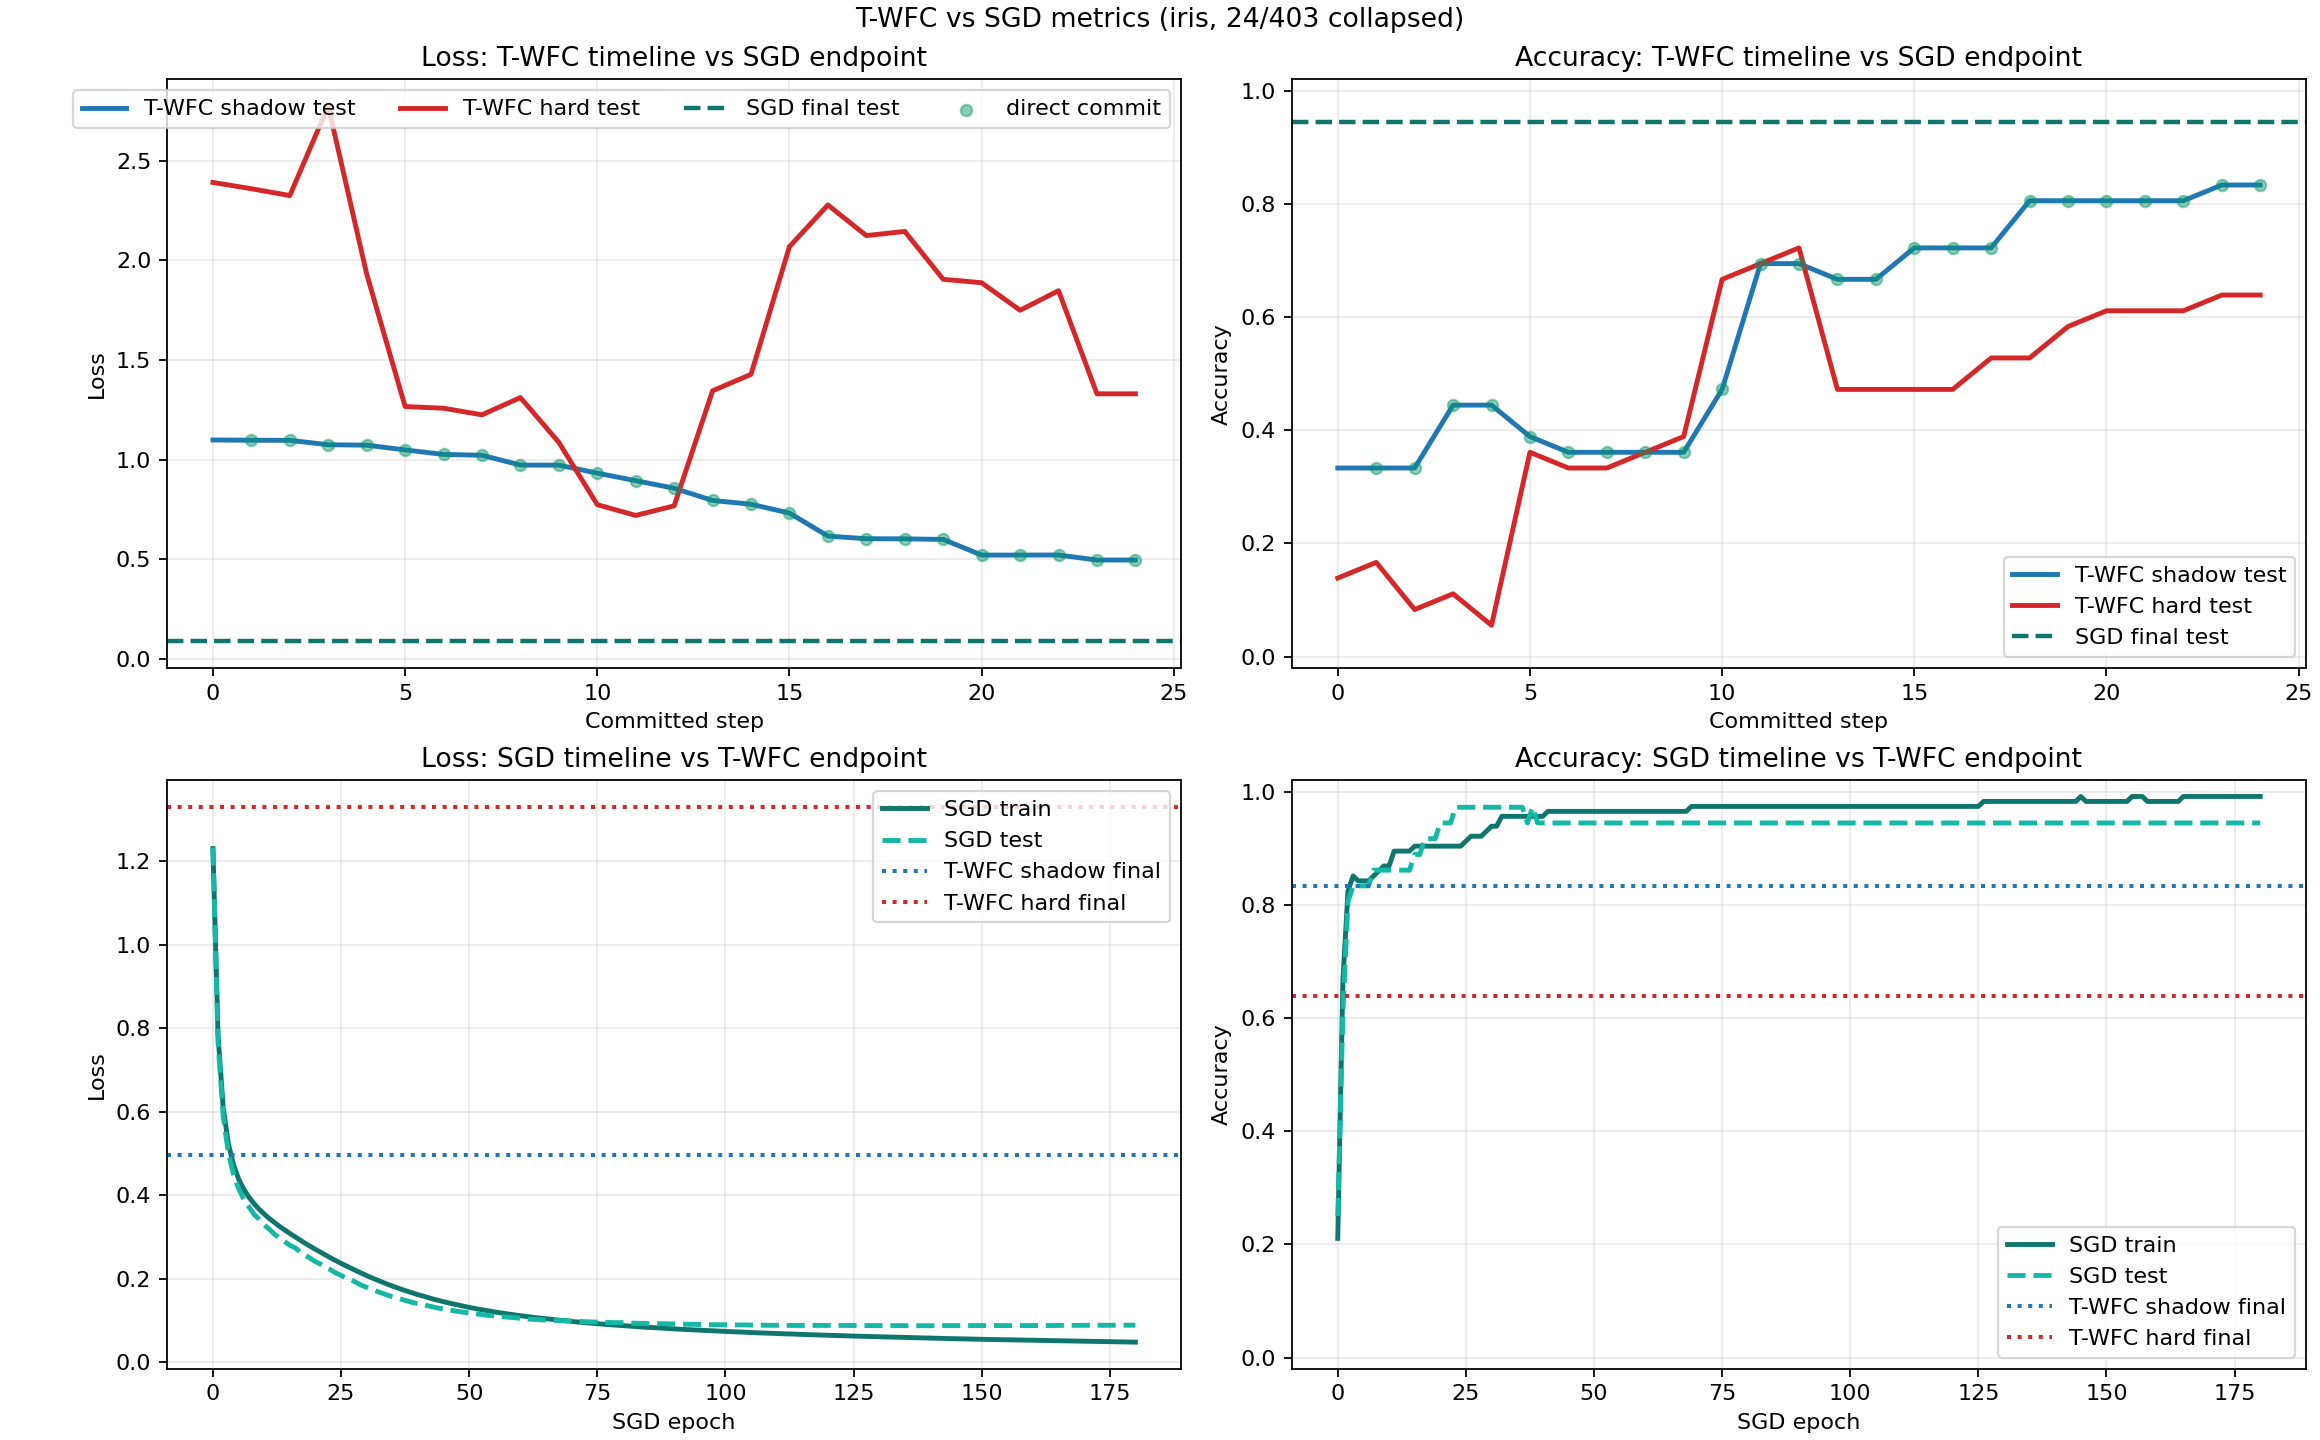
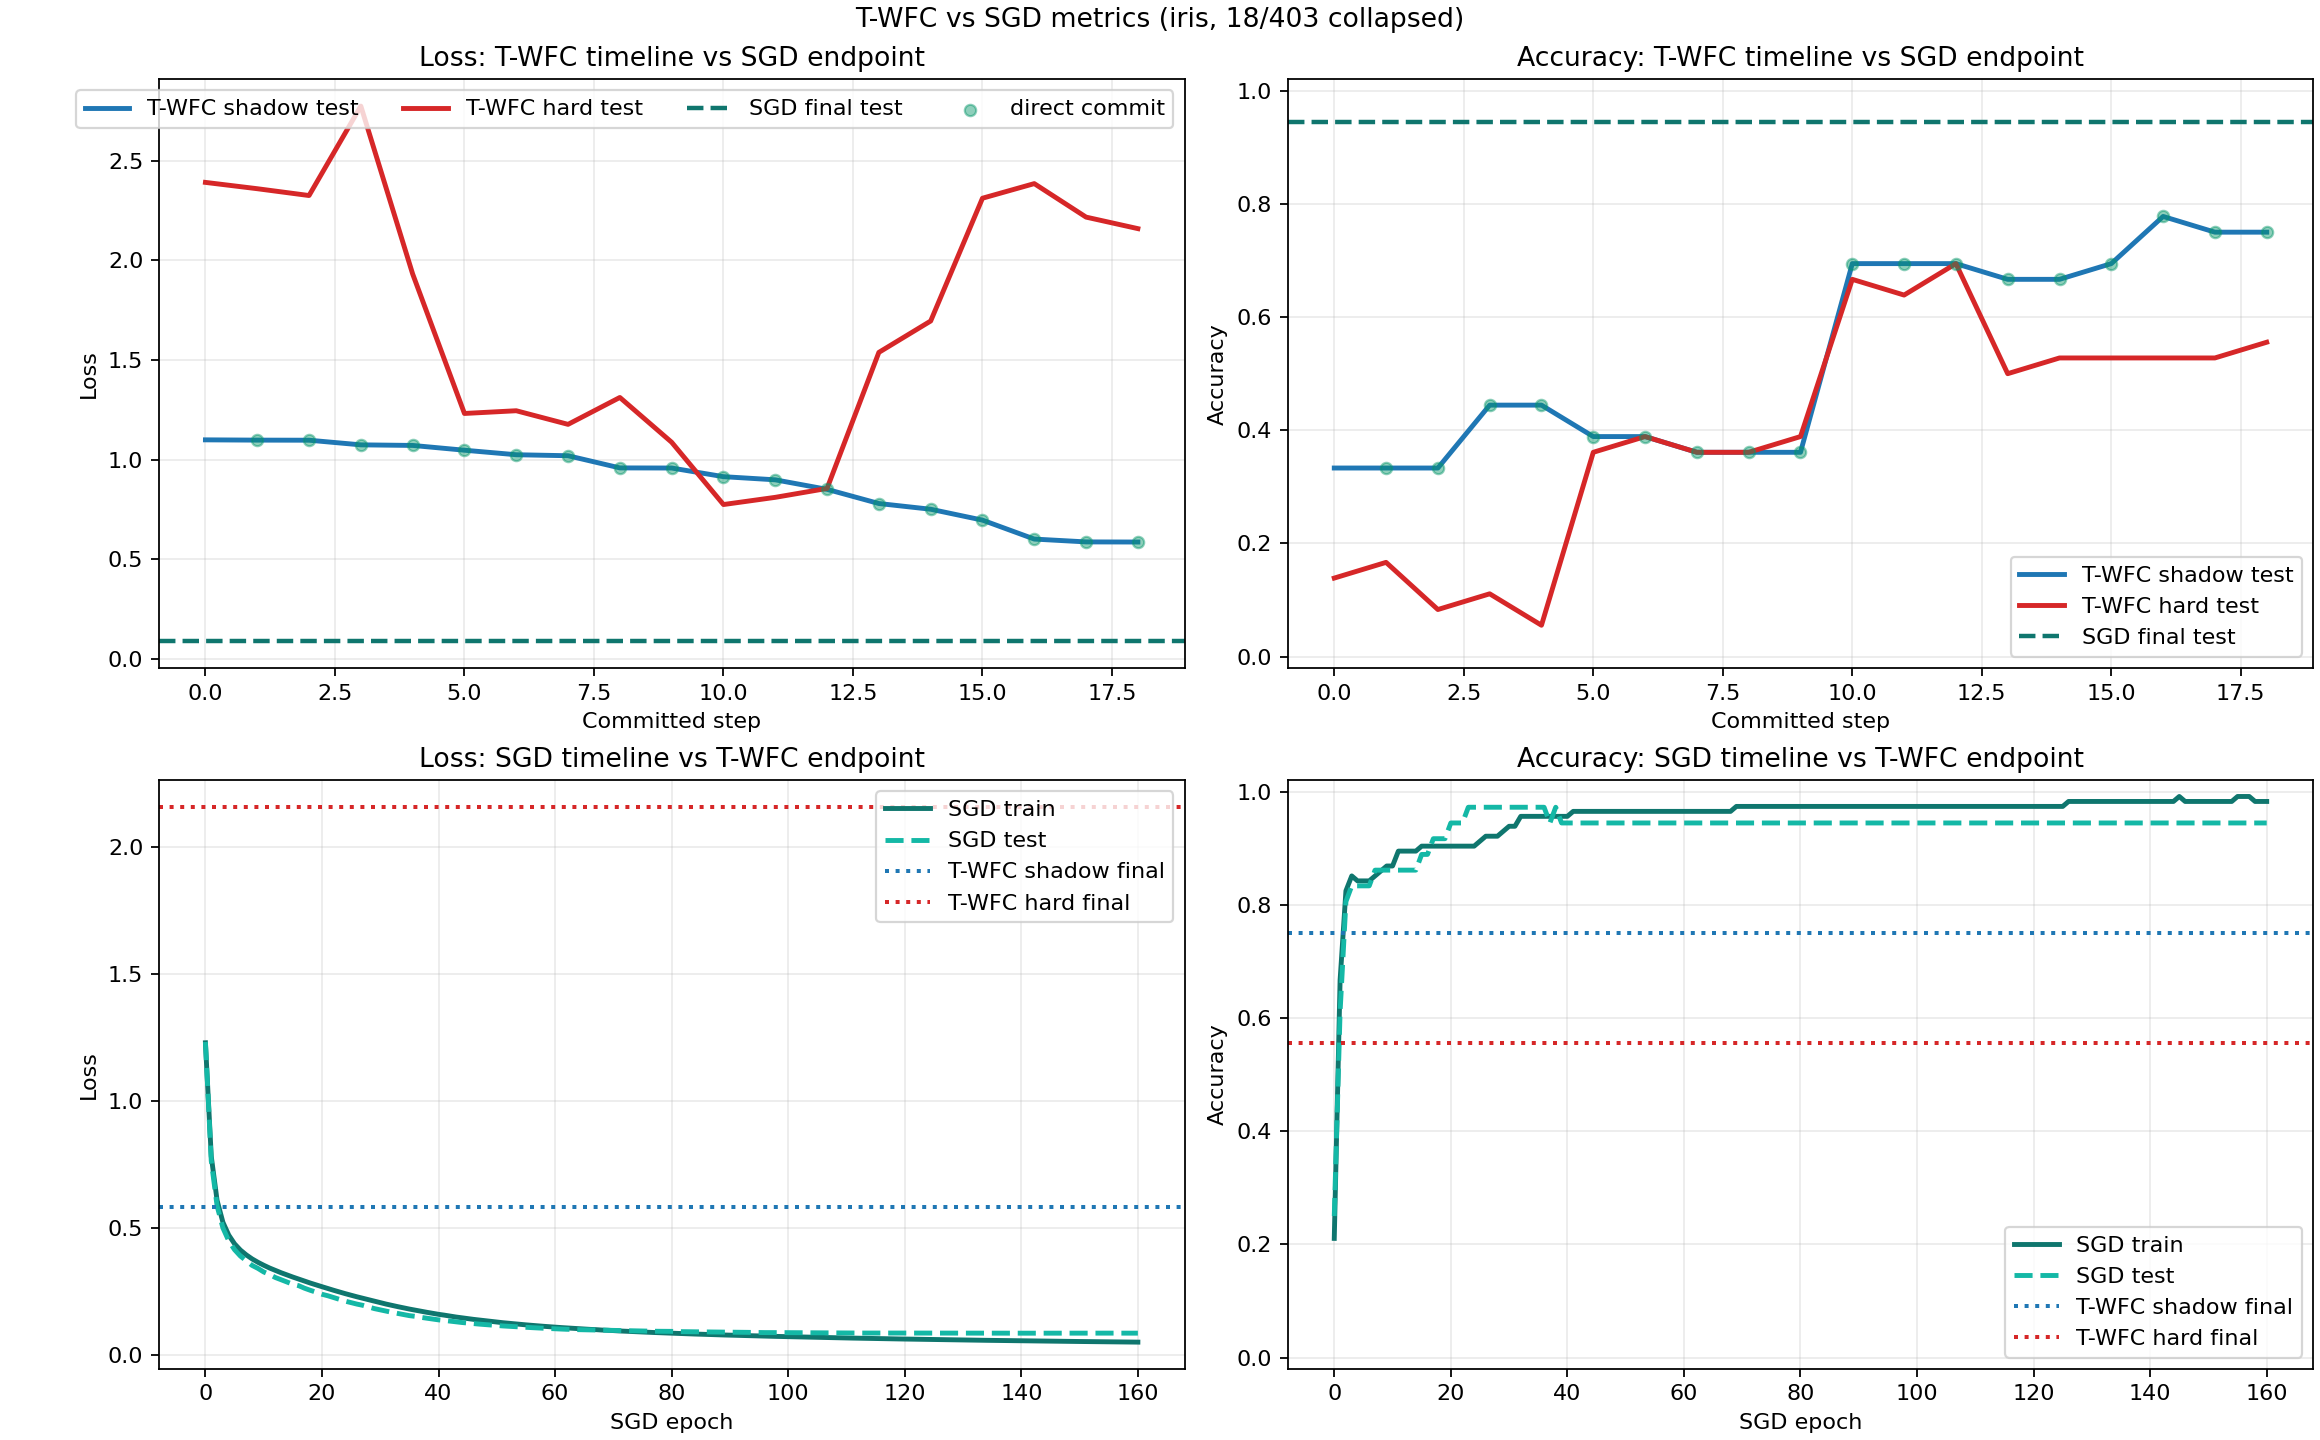
Refresh public comparison visuals

diff --git a/docs/daily_logs/2026-03-16/work_log.md b/docs/daily_logs/2026-03-16/work_log.md
@@ -8,6 +8,7 @@
 - Probe hybrid forced-commit score weights carefully before changing defaults.
 - Tune the next deeper-model default only if it improves `hard_weights` behavior without disturbing the single-layer baseline.
 - Promote the seed-report experience to a README-worthy state once highlighted runs can be understood without extra click-through.
+- Re-audit the public README and checked-in visualizations so every public metric claim matches the current code path.
 
 ## Completed Work
 
@@ -94,6 +95,22 @@
   - refreshed the repository map wording for `src/t_wfc/reporting.py`
 - Regenerated `docs/media/make_moons_seed_report.md`.
   - refreshed the checked-in public sample report so the linked example now shows the new inline best/worst previews
+- Re-audited the public README and checked-in showcase media.
+  - confirmed that every `docs/media/...` reference used by the public README files exists
+  - confirmed that the refreshed sample seed report really embeds best/worst preview images
+  - found that the old public `make_moons` and `iris` comparison captions no longer matched the current multi-layer defaults
+- Regenerated the public comparison media used directly by the README files.
+  - refreshed `docs/media/make_moons_twfc_vs_sgd.gif`
+  - refreshed `docs/media/make_moons_twfc_vs_sgd_boundaries.png`
+  - refreshed `docs/media/spiral_twfc_vs_sgd.gif`
+  - refreshed `docs/media/iris_twfc_vs_sgd_metrics.png`
+- Updated `README.md` and `README.ko.md` again.
+  - corrected the public `make_moons` comparison caption from hard acc `0.950` to `0.925`
+  - corrected the public `iris` comparison caption from shadow/hard `0.833/0.639` to `0.750/0.556`
+  - added the multi-layer auto-temperature default to the public current-status summary
+- Updated `HANDOFF.md`.
+  - recorded that the public README comparison captions and showcase media were re-verified against the current code
+- Updated `CHANGELOG.md` with a new 2026-03-16 entry for the public comparison refresh.
 
 ## Technical Decisions
 
@@ -118,6 +135,9 @@
 - Kept the new report preview feature scoped to the highlight section only:
   - best/worst sections get inline images because they are the report's highest-signal summary blocks
   - full seed drilldowns remain link-based so large seed sweeps do not turn into image-heavy walls
+- Treated the public README audit as a verification task, not just a wording pass:
+  - if a public metric claim no longer matched a rerun, the README was updated to the rerun rather than keeping a stale historical number
+  - the current `make_moons` and `iris` captions now reflect fresh local verification runs
 
 ## Verification
 
@@ -151,6 +171,21 @@
 - `PYTHONPATH=src python3 -m t_wfc.cli --dataset make_moons --max-steps 8 --seed-list 7,11,17,23,31 --save-seed-gallery docs/media/make_moons_seed_gallery.png --gallery-columns 3 --save-seed-artifacts-dir docs/media/make_moons_seed_runs --save-md-report docs/media/make_moons_seed_report.md --report-title "T-WFC make_moons Seed Sweep"`
   - Result: passed
   - Summary: regenerated the public sample seed report and seed artifact bundle; the checked-in report now renders best/worst storyboard and metrics previews inline
+- `python3 - <<'PY' ... README media reference audit + image size check ... PY`
+  - Result: passed
+  - Summary: every `docs/media` path referenced from `README.md` and `README.ko.md` exists, and the checked-in PNG showcase files opened successfully for basic size inspection
+- `PYTHONPATH=src python3 - <<'PY' ... reproduce README comparison metrics for make_moons / spiral / iris ... PY`
+  - Result: passed
+  - Summary: `spiral` still matched the public caption, while `make_moons` and `iris` needed caption refreshes to match the current multi-layer defaults
+- `PYTHONPATH=src python3 -m t_wfc.cli --dataset make_moons --samples 160 --hidden-layers 12,12 --max-steps 12 --compare-sgd --sgd-epochs 140 --sgd-batch-size 24 --save-baseline-comparison-plot docs/media/make_moons_twfc_vs_sgd_boundaries.png --save-baseline-comparison-gif docs/media/make_moons_twfc_vs_sgd.gif --max-frame-count 6 --gif-frame-duration-ms 320`
+  - Result: passed
+  - Summary: refreshed the public `make_moons` comparison visuals; current rerun metrics are shadow acc `0.950`, hard acc `0.925`, SGD acc `0.975`
+- `PYTHONPATH=src python3 -m t_wfc.cli --dataset spiral --samples 360 --hidden-layers 24,24 --max-steps 24 --compare-sgd --sgd-epochs 220 --sgd-batch-size 32 --save-baseline-comparison-gif docs/media/spiral_twfc_vs_sgd.gif --max-frame-count 6 --gif-frame-duration-ms 360`
+  - Result: passed
+  - Summary: refreshed the public `spiral` comparison GIF; rerun metrics stayed aligned with the public caption at hard acc `0.367` vs SGD `0.422`
+- `PYTHONPATH=src python3 -m t_wfc.cli --dataset iris --hidden-layers 16,16 --max-steps 18 --compare-sgd --sgd-epochs 160 --sgd-batch-size 24 --save-baseline-metrics-plot docs/media/iris_twfc_vs_sgd_metrics.png`
+  - Result: passed
+  - Summary: refreshed the public `iris` comparison metrics board; current rerun metrics are shadow acc `0.750`, hard acc `0.556`, SGD acc `0.944`
 
 ## Next Steps
 

diff --git a/README.ko.md b/README.ko.md
@@ -122,7 +122,7 @@ GIF가 “한 번의 run에서 무슨 일이 일어났는가?”를 보여준다
   <tr>
     <td valign="top">
       <strong>발표용으로 가장 좋은 케이스: make_moons</strong><br>
-      T-WFC hard test accuracy는 <code>0.950</code>, SGD는 <code>0.975</code>까지 갑니다. gap이 작고 collapse 과정도 읽기 쉬워서 가장 눈에 잘 들어옵니다.
+      T-WFC hard test accuracy는 <code>0.925</code>, SGD는 <code>0.975</code>까지 갑니다. 여전히 gap이 비교적 작고 collapse 과정도 읽기 쉬워서 가장 눈에 잘 들어옵니다.
     </td>
     <td valign="top">
       <strong>확장 한계를 보여주는 케이스: spiral</strong><br>
@@ -134,7 +134,7 @@ GIF가 “한 번의 run에서 무슨 일이 일어났는가?”를 보여준다
 <p align="center">
   <img src="./docs/media/iris_twfc_vs_sgd_metrics.png" alt="T-WFC vs SGD metrics on iris" width="920">
 </p>
-<p align="center"><sub><code>iris</code>는 metric gap을 가장 깔끔하게 보여줍니다. T-WFC shadow test accuracy는 <code>0.833</code>, hard test accuracy는 <code>0.639</code>, SGD는 <code>0.944</code>입니다.</sub></p>
+<p align="center"><sub><code>iris</code>는 metric gap을 가장 깔끔하게 보여줍니다. T-WFC shadow test accuracy는 <code>0.750</code>, hard test accuracy는 <code>0.556</code>, SGD는 <code>0.944</code>입니다.</sub></p>
 
 누군가 “T-WFC가 흥미로운 일을 하긴 하나?”라고 물으면 `make_moons` GIF를 보여주면 됩니다.
 
@@ -145,6 +145,7 @@ GIF가 “한 번의 run에서 무슨 일이 일어났는가?”를 보여준다
 - `make_moons`, `spiral`, vendored `iris.csv`를 지원합니다.
 - 모델 경로는 기존 단일 hidden layer toy MLP뿐 아니라 `2-24-24-3`, `4-16-16-3` 같은 다층 구성도 지원합니다.
 - 다층 run에서는 single-weight observation이 완전히 평평한 zero-signal 상태에 갇히지 않도록 작은 symmetry-breaking initial jitter가 기본 적용됩니다.
+- 다층 run에서는 사용자가 별도 지정하지 않을 때 더 날카로운 기본 observation temperature도 함께 적용되어, deeper model posterior가 예전 single-layer 기본값처럼 너무 평평하게 남지 않도록 합니다.
 - trainer에는 관측, 단일 weight 붕괴, 전파, rollback-aware backtracking, hybrid score 기반 forced commit이 들어가 있습니다.
 - `make_moons` 실행은 다음 시각화를 저장할 수 있습니다.
   - `initial shadow / final shadow / final hard` 3패널 overview plot

diff --git a/README.md b/README.md
@@ -122,7 +122,7 @@ The gallery is meant to answer a different question from the GIFs: not “what h
   <tr>
     <td valign="top">
       <strong>Presentation-friendly case: make_moons</strong><br>
-      T-WFC hard weights reach <code>0.950</code> test accuracy while SGD reaches <code>0.975</code>. This is the most eye-catching comparison because the gap is small and the collapse process is easy to read.
+      T-WFC hard weights reach <code>0.925</code> test accuracy while SGD reaches <code>0.975</code>. This is still the most eye-catching comparison because the gap stays relatively small and the collapse process is easy to read.
     </td>
     <td valign="top">
       <strong>Honest scaling case: spiral</strong><br>
@@ -134,7 +134,7 @@ The gallery is meant to answer a different question from the GIFs: not “what h
 <p align="center">
   <img src="./docs/media/iris_twfc_vs_sgd_metrics.png" alt="T-WFC vs SGD metrics on iris" width="920">
 </p>
-<p align="center"><sub><code>iris</code> is the clean metric-gap example: T-WFC shadow test accuracy reaches <code>0.833</code>, hard test accuracy reaches <code>0.639</code>, and SGD reaches <code>0.944</code>.</sub></p>
+<p align="center"><sub><code>iris</code> is the clean metric-gap example: T-WFC shadow test accuracy reaches <code>0.750</code>, hard test accuracy reaches <code>0.556</code>, and SGD reaches <code>0.944</code>.</sub></p>
 
 If someone asks “does T-WFC do anything interesting?”, show the `make_moons` GIF.
 
@@ -145,6 +145,7 @@ If someone asks “does it already scale like SGD?”, show `spiral` and `iris`.
 - `make_moons`, `spiral`, and vendored `iris.csv` are supported.
 - The model path now supports both the original single-hidden-layer toy MLP and deeper configurations such as `2-24-24-3` or `4-16-16-3`.
 - Multi-layer runs now apply a small symmetry-breaking initial jitter by default so single-weight observation does not get stuck in a perfectly flat zero-signal state.
+- Multi-layer runs now also resolve to a sharper default observation temperature unless the user sets one explicitly, which keeps deeper-model posteriors from staying as flat as the original single-layer default.
 - The trainer already supports observation, single-weight collapse, propagation, rollback-aware backtracking, and hybrid-scored forced commits.
 - `make_moons` runs can save:
   - an overview plot with `initial shadow / final shadow / final hard`

diff --git a/CHANGELOG.md b/CHANGELOG.md
@@ -2,6 +2,7 @@
 
 | Date | Change | Details |
 |------|--------|---------|
+| 2026-03-16 | Re-verified README comparison claims and refreshed the checked-in public comparison media | [work_log.md](./docs/daily_logs/2026-03-16/work_log.md) |
 | 2026-03-16 | Refreshed the public README files and sample seed report for inline highlight previews | [work_log.md](./docs/daily_logs/2026-03-16/work_log.md) |
 | 2026-03-16 | Embedded inline best/worst preview images inside seed Markdown reports | [work_log.md](./docs/daily_logs/2026-03-16/work_log.md) |
 | 2026-03-16 | Sharpened the auto observation temperature used on multi-layer T-WFC runs | [work_log.md](./docs/daily_logs/2026-03-16/work_log.md) |
